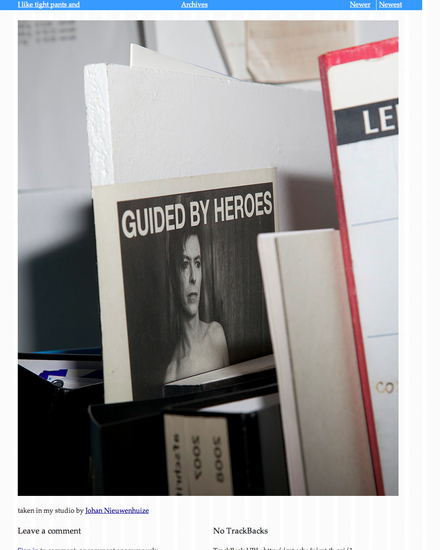
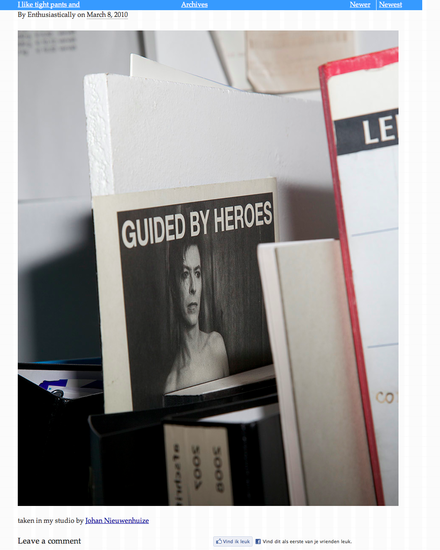
Now a number of new authors

diff --git a/gerard-reve-a-new-hymn-for-easter.html b/gerard-reve-a-new-hymn-for-easter.html
@@ -24,7 +24,7 @@
     dc:identifier="http://i.liketightpants.net/and/gerard-reve-a-new-hymn-for-easter.html"
     dc:subject=""
     dc:description=" body, .container { background: none; } To celebrate easter I translated Gerard Reve&apos;s (1923-2006) een Nieuw Paaslied (1962) :) A new hymn for Easter Without having drunk, I praise God. Today many things happened. Strolling through the lower city,..."
-    dc:creator="Eric"
+    dc:creator="Glittery"
     dc:date="2011-04-25T20:54:37+01:00" />
 </rdf:RDF>
 -->
@@ -49,6 +49,12 @@
     
     <ul>
 </div>
+
+<div class="subheader span-22 prepend-1 append-1">
+By Glittery on <abbr class="published" title="2011-04-25T20:54:37+01:00">April 25, 2011</abbr>
+</div>
+
+
 <div class="span-22 prepend-1 append-1 prepend-top append-bottom last">
 <style>
 body, .container {
@@ -97,18 +103,18 @@ but there was none.</p>
     <h4 class="comments-header">1 Comment</h4>
     <div class="comments-content">
         
-        <div id="comment-53" class="comment entry-author-comment">
+        <div id="comment-53" class="comment">
             <div class="inner">
                 <div class="comment-header">
                     <div class="asset-meta">
                         <span class="byline">
                             <img alt="Author Profile Page" src="http://mt.schr.fr/lib/images/comment/mt_logo.png" width="16" height="16" />
         
-                            <span class="vcard author">Eric</span>
+                            <span class="vcard author">Critically</span>
         
                             | <a href="http://i.liketightpants.net/and/gerard-reve-a-new-hymn-for-easter.html#comment-53"><abbr class="published" title="2011-04-25T21:06:44+01:00">April 25, 2011  9:06 PM</abbr></a>
         
-                            | <a title="Reply" href="javascript:void(0);" onclick="mtReplyCommentOnClick(53, 'Eric')">Reply</a>
+                            | <a title="Reply" href="javascript:void(0);" onclick="mtReplyCommentOnClick(53, 'Critically')">Reply</a>
         
                         </span>
                     </div>

diff --git a/talking-of-content.html b/talking-of-content.html
@@ -24,7 +24,7 @@
     dc:identifier="http://i.liketightpants.net/and/talking-of-content.html"
     dc:subject=""
     dc:description="talking of content At the Libre Graphics Meeting, a four day event bringing together open source developers and graphic professionals. Correction @ 4:52: the Open Baskerville project has been initiated by Simon Pascal Klein from Australia (not Pascal Simon Klein..."
-    dc:creator="Eric"
+    dc:creator="Mystically"
     dc:date="2010-06-08T23:05:38+01:00" />
 </rdf:RDF>
 -->
@@ -53,6 +53,12 @@
     
     <ul>
 </div>
+
+<div class="subheader span-22 prepend-1 append-1">
+By Mystically on <abbr class="published" title="2010-06-08T23:05:38+01:00">June  8, 2010</abbr>
+</div>
+
+
 <div class="span-22 prepend-1 append-1 prepend-top append-bottom last">
 <h2>talking of content</h2>
 
@@ -108,7 +114,7 @@
         
     
         
-        <div id="comment-25" class="comment entry-author-comment">
+        <div id="comment-25" class="comment">
             <div class="inner">
                 <div class="comment-header">
                     <div class="asset-meta">
@@ -142,7 +148,7 @@
         
     
         
-        <div id="comment-26" class="comment entry-author-comment">
+        <div id="comment-26" class="comment">
             <div class="inner">
                 <div class="comment-header">
                     <div class="asset-meta">

diff --git a/mt.js b/mt.js
@@ -100,7 +100,7 @@ function mtShowCaptcha() {
     if (mtCaptchaVisible) return;
     var div = document.getElementById('comments-open-captcha');
     if (div) {
-        div.innerHTML = '<div class="label"><label for="captcha_code">Captcha:</label></div><div class="field"><input type="hidden" name="token" value="g2N01kGcMm7exomald8bxksh8H1qBJkWvZ6mjb6k" /><img src="http://mt.schr.fr/comments.cgi/captcha/1/g2N01kGcMm7exomald8bxksh8H1qBJkWvZ6mjb6k" width="150" height="35" /><br /><input name="captcha_code" id="captcha_code" value="" autocomplete="off" /><p>Type the characters you see in the picture above.</p></div>';
+        div.innerHTML = '<div class="label"><label for="captcha_code">Captcha:</label></div><div class="field"><input type="hidden" name="token" value="q4eYVegYwpjBa0mqTERAypc703agQArGFHgmXsnh" /><img src="http://mt.schr.fr/comments.cgi/captcha/1/q4eYVegYwpjBa0mqTERAypc703agQArGFHgmXsnh" width="150" height="35" /><br /><input name="captcha_code" id="captcha_code" value="" autocomplete="off" /><p>Type the characters you see in the picture above.</p></div>';
         mtCaptchaVisible = true;
     }
 }

diff --git a/heroes.html b/heroes.html
@@ -24,7 +24,7 @@
     dc:identifier="http://i.liketightpants.net/and/heroes.html"
     dc:subject=""
     dc:description=" taken in my studio by Johan Nieuwenhuize..."
-    dc:creator="Eric"
+    dc:creator="Enthusiastically"
     dc:date="2010-03-08T20:06:05+01:00" />
 </rdf:RDF>
 -->
@@ -49,6 +49,12 @@
     
     <ul>
 </div>
+
+<div class="subheader span-22 prepend-1 append-1">
+By Enthusiastically on <abbr class="published" title="2010-03-08T20:06:05+01:00">March  8, 2010</abbr>
+</div>
+
+
 <div class="span-22 prepend-1 append-1 prepend-top append-bottom last">
   <p><img src="http://i.liketightpants.net/and/assets/called/bowie.jpg" alt="You see a picture of a small poster stuck behind some files. It says 'Guided by Heroes' and it shows David Bowie."  style="width:900px;height:1124px;"/></p>
   <p>taken in my studio by <a href="http://johannieuwenhuize.nl/">Johan Nieuwenhuize</a></p>

diff --git a/juxtapositions.html b/juxtapositions.html
@@ -24,7 +24,7 @@
     dc:identifier="http://i.liketightpants.net/and/juxtapositions.html"
     dc:subject=""
     dc:description=" blockquote { font-size: 200% } juxtapositions Maybe I was emerging into the era of post-modernism but I put it down far more to ADD &#8211; Attention Deficiency Disorder [laughs]. I just think that I couldn&apos;t concentrate. I never have..."
-    dc:creator="Eric"
+    dc:creator="Enthusiastically"
     dc:date="2010-03-14T21:32:48+01:00" />
 </rdf:RDF>
 -->
@@ -53,6 +53,12 @@
     
     <ul>
 </div>
+
+<div class="subheader span-22 prepend-1 append-1">
+By Enthusiastically on <abbr class="published" title="2010-03-14T21:32:48+01:00">March 14, 2010</abbr>
+</div>
+
+
 <div class="span-22 prepend-1 append-1 prepend-top append-bottom last">
 <style>
 blockquote {

diff --git a/accessible-svg.html b/accessible-svg.html
@@ -24,7 +24,7 @@
     dc:identifier="http://i.liketightpants.net/and/accessible-svg.html"
     dc:subject=""
     dc:description=" Accessible svg Implementing SVG I know that SVG&apos;s are supported in Firefox and Safari, so I want them on this website. I figured I could best look how it is done in the wild. I looked at the site..."
-    dc:creator="Eric"
+    dc:creator="Programmatically"
     dc:date="2010-08-09T23:04:33+01:00" />
 </rdf:RDF>
 -->
@@ -53,6 +53,12 @@
     
     <ul>
 </div>
+
+<div class="subheader span-22 prepend-1 append-1">
+By Programmatically on <abbr class="published" title="2010-08-09T23:04:33+01:00">August  9, 2010</abbr>
+</div>
+
+
 <div class="span-22 prepend-1 append-1 prepend-top append-bottom last">
 <div class="span-22">
 <h2>Accessible svg</h2>

diff --git a/honest-artist-statements.html b/honest-artist-statements.html
@@ -24,7 +24,7 @@
     dc:identifier="http://i.liketightpants.net/and/honest-artist-statements.html"
     dc:subject=""
     dc:description=" #text p{ font-size: 200%; } honest artist statements An artist statement is a text you write when you apply for a scholarship or open call, and that you keep around on your website. I keep changing around this text...."
-    dc:creator="Eric"
+    dc:creator="Enthusiastically"
     dc:date="2010-07-09T18:15:35+01:00" />
 </rdf:RDF>
 -->
@@ -53,6 +53,12 @@
     
     <ul>
 </div>
+
+<div class="subheader span-22 prepend-1 append-1">
+By Enthusiastically on <abbr class="published" title="2010-07-09T18:15:35+01:00">July  9, 2010</abbr>
+</div>
+
+
 <div class="span-22 prepend-1 append-1 prepend-top append-bottom last">
 <style>
 #text p{

diff --git a/beta.html b/beta.html
@@ -24,7 +24,7 @@
     dc:identifier="http://i.liketightpants.net/and/beta.html"
     dc:subject=""
     dc:description=" Beta Reading yet another programming blog with great design, I feel ashamed for the shape this site is in. Well, it is in beta! Apparently there are people who can pull it of, but I think my website will..."
-    dc:creator="Eric"
+    dc:creator="Graphically"
     dc:date="2010-09-05T00:15:37+01:00" />
 </rdf:RDF>
 -->
@@ -53,6 +53,12 @@
     
     <ul>
 </div>
+
+<div class="subheader span-22 prepend-1 append-1">
+By Graphically on <abbr class="published" title="2010-09-05T00:15:37+01:00">September  5, 2010</abbr>
+</div>
+
+
 <div class="span-22 prepend-1 append-1 prepend-top append-bottom last">
 <div class="span-22 last">
 <h2>Beta</h2>

diff --git a/golden.html b/golden.html
@@ -24,7 +24,7 @@
     dc:identifier="http://i.liketightpants.net/and/golden.html"
     dc:subject=""
     dc:description=" .credits p { font-size: 13px; } Ola and Eric in a performance by Bruno. Photo by Jette / Danslab...."
-    dc:creator="Eric"
+    dc:creator="Glittery"
     dc:date="2010-03-25T14:13:59+01:00" />
 </rdf:RDF>
 -->
@@ -53,6 +53,12 @@
     
     <ul>
 </div>
+
+<div class="subheader span-22 prepend-1 append-1">
+By Glittery on <abbr class="published" title="2010-03-25T14:13:59+01:00">March 25, 2010</abbr>
+</div>
+
+
 <div class="span-22 prepend-1 append-1 prepend-top append-bottom last">
 <style>
 .credits p {

diff --git a/the-problem-with-web-apps.html b/the-problem-with-web-apps.html
@@ -24,7 +24,7 @@
     dc:identifier="http://i.liketightpants.net/and/the-problem-with-web-apps.html"
     dc:subject=""
     dc:description="the problem with web apps..."
-    dc:creator="Eric"
+    dc:creator="Mystically"
     dc:date="2010-04-07T20:10:09+01:00" />
 </rdf:RDF>
 -->
@@ -53,6 +53,12 @@
     
     <ul>
 </div>
+
+<div class="subheader span-22 prepend-1 append-1">
+By Mystically on <abbr class="published" title="2010-04-07T20:10:09+01:00">April  7, 2010</abbr>
+</div>
+
+
 <div class="span-22 prepend-1 append-1 prepend-top append-bottom last">
 <h2>the problem with web apps</h2>
 <p>

diff --git a/illustration.html b/illustration.html
@@ -24,7 +24,7 @@
     dc:identifier="http://i.liketightpants.net/and/illustration.html"
     dc:subject=""
     dc:description="Illustration..."
-    dc:creator="Eric"
+    dc:creator="Graphically"
     dc:date="2011-02-20T20:12:06+01:00" />
 </rdf:RDF>
 -->
@@ -53,6 +53,12 @@
     
     <ul>
 </div>
+
+<div class="subheader span-22 prepend-1 append-1">
+By Graphically on <abbr class="published" title="2011-02-20T20:12:06+01:00">February 20, 2011</abbr>
+</div>
+
+
 <div class="span-22 prepend-1 append-1 prepend-top append-bottom last">
 <h2>Illustration</h2>
 <p>
